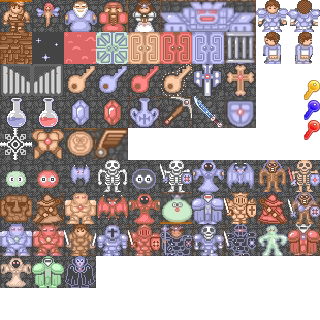
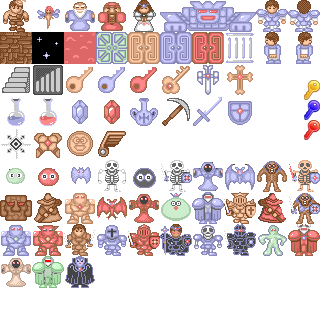
升级素材，增加动画

diff --git a/js/Event.js b/js/Event.js
@@ -17,22 +17,28 @@ define(function(require, exports, module){
             var _Player = mota.player;
             var kv = e.keyCode;
             if(kv == 37 ){ //向左
-                _Player.move("left")
+                _Player.move("left");
+                return false;
             }else if(kv == 39){  //向右
-                _Player.move("right")
+                _Player.move("right");
+                return false;
             }else if(kv == 38){  //向上
-                _Player.move("up")
+                _Player.move("up");
+                return false;
             }else if(kv == 40){  //向下
-                _Player.move("down")
+                _Player.move("down");
+                return false;
             }else if(kv == 76 ){ //查看怪物属性
                 if(_Player.items.sgh)  //必须要有圣光徽
                     mota.dialog.viewEnemyInit(_Player.f);
+                return false;
             }else if(kv == 74 ){ //跳跃楼层
                 if(_Player.items.fzlp)  //必须要有风之罗盘
                     if(_Player.f == 22)
                         mota.dialog.showMessage("很不幸，本层被魔咒笼罩着，风之罗盘失效了。");
                     else
                         mota.map.chooseFloor(_Player.f_arr);
+                return false;
             }
         },
 
@@ -101,6 +107,7 @@ define(function(require, exports, module){
             var kv = e.keyCode;
             if(kv == 32 ){ //按空格继续
                 mota.dialog.close();
+                return false;
             }
         },
 
@@ -109,6 +116,7 @@ define(function(require, exports, module){
             var kv = e.keyCode;
             if(kv == 32 ){ //按空格继续
                 mota.fighting.complete();
+                return false;
             }
         },
 
@@ -118,12 +126,16 @@ define(function(require, exports, module){
             if(kv == 32 ){ //按空格继续 取消购物
                 mota.dialog.close();
                 mota.shopping.end();
+                return false;
             }else if(kv == 38){  //向上移动选框
                 mota.shopping.selectItem("up");
+                return false;
             }else if(kv == 40){  //向下移动选框
                 mota.shopping.selectItem("down");
+                return false;
             }else if(kv == 13){  //按回车 确定购买所选物品
                 mota.shopping.ok();
+                return false;
             }
         },
 
@@ -134,12 +146,16 @@ define(function(require, exports, module){
             if(kv == 32 ){ //按空格继续 取消跳跃
                 mota.dialog.close();
                 _Player.Choose_end();
+                return false;
             }else if(kv == 38){  //选择上一层
                 _Player.Choose_floor("up");
+                return false;
             }else if(kv == 40){  //选择下一层
                 _Player.Choose_floor("down");
+                return false;
             }else if(kv == 13){  //按回车 确定跳跃
                 _Player.Go_floor();
+                return false;
             }
         }
     }

diff --git a/css/mota.css b/css/mota.css
@@ -22,8 +22,8 @@ body,p,h1,h2,h3,h4,h5,h6,ul,li,dl{margin:0; padding:0}
 .toggle_off .t_on{display:none}
 .rights{position:absolute; width: 408px; right:0; bottom:0; text-align:right; padding:0 8px 8px 0; color:#FC9; background: #2E2E2E; display: none;}
 .rights a{color: #95b3ff}
-.mapwrap{height:416px; width:352px; padding:32px; background:url(../image/wall.jpg) repeat 0 0; position:absolute; left:50%; top:50%; z-index:2; margin:-240px 0 0 -208px; box-shadow:0 0 5px #FFF; border-radius:5px}
-.map{height:352px; width:352px; background:url(../image/bg_map.jpg) repeat 0 0; position:relative}
+.mapwrap{height:416px; width:352px; padding:32px; background:url(../image/wall.png) repeat 0 0; position:absolute; left:50%; top:50%; z-index:2; margin:-240px 0 0 -208px; box-shadow:0 0 5px #FFF; border-radius:5px}
+.map{height:352px; width:352px; background:url(../image/bg_map.png) repeat 0 0; position:relative}
 .welcome{width:416px; height:480px; overflow:hidden; position:absolute; top:0; left:0; border-radius:5px; background:#2e2e2e; z-index:999999}
 .loading{background:#2e2e2e url(../image/perloading.gif) no-repeat center center}
 .chapter,.game_helper{padding:0 20px}
@@ -63,7 +63,7 @@ body,p,h1,h2,h3,h4,h5,h6,ul,li,dl{margin:0; padding:0}
 .showMessage{padding:12px 12px 0}
 .fighting_box{height:100%; width:100%; position:absolute; left:50%; top:50%; margin:-50% 0 0 -50%; background:#FFF; border-radius:5px; box-shadow:0 0 15px #F00; display:none}
 .ft,.fc{margin:15px}
-.ft,.enemyTable{overflow:hidden; zoom:1; background:url(../image/bg_map.jpg) repeat 0 0; position:relative}
+.ft,.enemyTable{overflow:hidden; zoom:1; background:url(../image/bg_map.png) repeat 0 0; position:relative}
 .ft .fvs{width:60px; height:60px; line-height:60px; font-size:50px; font-family:"Palatino Linotype", "Book Antiqua", Palatino, serif; color:#F00; text-align:center; position:absolute; top:50%; left:50%; margin:-30px 0 0 -30px}
 .fplayer,.fenemy{float:left; width:140px; padding:10px 10px 4px}
 .fplayer .player_down,.fenemy .block,.enemyTable .block{position:static}
@@ -86,7 +86,7 @@ body,p,h1,h2,h3,h4,h5,h6,ul,li,dl{margin:0; padding:0}
 .use_fzlp li{float:left; width:70px; margin-bottom:2px}
 .selectItem{padding:6px 60px 0}
 .block,.key{background-image:url("./../image/resources_image.png"); background-repeat:no-repeat;}
-
+.frame2 .block,.frame2 .key{background-image:url("./../image/resources_image_2.png") !important;}
 /*属性面板*/
 .info{position:absolute; width:390px; height:70px; left:50%; margin-left:-195px; bottom:10px; border:2px #F93 solid; border-radius:6px; background:#66F; overflow:hidden; zoom:1; display:none;}
 .info_col{float:left; height:70px}

diff --git a/js/Dialog.js b/js/Dialog.js
@@ -31,15 +31,15 @@ define(function(require, exports, module){
             this.show(this.obj.option["dialog_" + i] , this.sindex , direct);
             if(this.obj.name == "shop_m_l" || this.obj.name == "shop_m_h" || this.obj.name == "shop_e_l" || this.obj.name == "shop_e_h" || this.obj.name == "shop_key_sell" ||this.obj.name == "shop_key_buy"){ //触发购物
                 mota.event.EventShopping(this.obj , this.player);
-                $(document).unbind().bind("keyup", mota.event._Shop_ing);
+                $(document).unbind().bind("keydown", mota.event._Shop_ing);
             }else{  //普通对话
-                $(document).unbind().bind("keyup", mota.event._Dialog_ing);
+                $(document).unbind().bind("keydown", mota.event._Dialog_ing);
             }
         },
         close : function(){
             this.box.empty();
             mota.player.allowMove = true;
-            $(document).unbind().bind("keyup", mota.event._Player_Move);
+            $(document).unbind().bind("keydown", mota.event._Player_Move);
         },
         next : function(){
             this.box.empty();
@@ -147,7 +147,7 @@ define(function(require, exports, module){
                            '<div class="continue">按空格键继续...</div>' +
                        '</div>';
             $(html).appendTo(this.box);
-            $(document).unbind().bind("keyup",mota.event.showMessage_close);
+            $(document).unbind().bind("keydown",mota.event.showMessage_close);
         },
         viewEnemyInit : function(f){
             //获取到所有敌人
@@ -204,7 +204,7 @@ define(function(require, exports, module){
                 '<div class="continue">按空格键继续...</div>' +
             '</div>';
             $(html).appendTo(this.box);
-            $(document).unbind().bind("keyup", mota.event.showMessage_close);
+            $(document).unbind().bind("keydown", mota.event.showMessage_close);
         }
     }
 

diff --git a/js/Fighting.js b/js/Fighting.js
@@ -67,7 +67,7 @@ define(function(require, exports, module){
             $("#fend").show();
             mota._Debug.log("战斗胜利，你获得了" + "<strong> " + this.obj.option["win"].expe + " </strong>点经验和 <strong>" + this.obj.option["win"].money + "</strong> 个金币。", true);
             this.player.addPrototype(this.obj);
-            $(document).bind("keyup", mota.event._Fight_end);
+            $(document).bind("keydown", mota.event._Fight_end);
         },
         complete : function(){
             var player = this.player;
@@ -76,7 +76,7 @@ define(function(require, exports, module){
             player.refreshData();
             player.allowMove = true;
             mota.map.clearObject(this.obj);
-            $(document).unbind().bind("keyup", mota.event._Player_Move);
+            $(document).unbind().bind("keydown", mota.event._Player_Move);
         },
         fight : function(){
             this.timer = setInterval(gogo , this.fightSpeed);

diff --git a/js/Map.js b/js/Map.js
@@ -10,6 +10,9 @@
 
 define(function(require, exports, module){
     var mapBox = $("#map");
+    setInterval(function() {
+    	$("#map").toggleClass("frame2");
+    }, 500);
 
     module.exports = Map;
 
@@ -44,7 +47,7 @@ define(function(require, exports, module){
             }
             mapBox.html(mapHtml);
             player.refreshData();
-            $(document).unbind().bind("keyup", mota.event._Player_Move);
+            $(document).unbind().bind("keydown", mota.event._Player_Move);
         },
 
         clearObject : function(o){
@@ -100,7 +103,7 @@ define(function(require, exports, module){
                 '</div>';
             $(html).appendTo($("#pop_wrap"));
             mota._Debug.log("你打开了风之罗盘",true);
-            $(document).unbind().bind("keyup", mota.event._Use_fzlp);
+            $(document).unbind().bind("keydown", mota.event._Use_fzlp);
         },
 
         save : function(){

diff --git a/index.html b/index.html
@@ -45,8 +45,8 @@
             </div>
         </div>
         <div class="rights">
-            <p>mota v1.2 Bate, by <a href="http://www.shaman05.com" target="_blank">shaman</a></p>
-            <p>Recommends using Firefox or Google browser.</p>
+            <p>mota v2.0 beta, by <a href="http://www.shaman05.com" target="_blank">shaman</a> & <a href="http://orzfly.com">orzFly</a></p>
+            <p>Recommends using <a href="http://browsehappy.com/">an Awesome Browser</a>.</p>
         </div>
 	</div>
 	<span id="toggle" class="toggle toggle_off"><span class="t_on" title="隐藏辅助面板">&laquo;</span><span class="t_off" title="显示辅助面板">&raquo;</span></span>

diff --git a/js/init.js b/js/init.js
@@ -52,7 +52,9 @@ define(function(require, exports, modules){
         start : function(){
             $(function(){
                 $("<img/>").attr("src","image/resources_image.png").load(function(){
-                    init();
+                    $("<img/>").attr("src","image/resources_image_2.png").load(function(){
+                    	init();
+               		});
                 });
             })
 

diff --git a/js/Map.php b/js/Map.php
@@ -1,6 +1,3 @@
-<?php
-	$v = $_GET["v"];
-?>
 // JavaScript Document
 // Map
 
@@ -105,9 +102,6 @@ var enemy_01 = new Monster("enemy_01"),
 	每层地图通过一个二维数组来创建地图
 	[ ,  ,  ,  ,  ,  ,  ,  ,  ,  , ],
 *******************************/
-<?php 
-	if($v == "0"){
-?>
 var _Map = {
 	"updata_player_position" : [
 		{},
@@ -421,9 +415,6 @@ var _Map = {
 		[_Sky , _Sky , _Sky , _Sky , _Sky , _Sky , _Sky , _Sky , _Sky , _Sky , _Sky]
 	]
 }
-<?php 
-	}
-?>
 
 /*******************************
 	装载地图：
